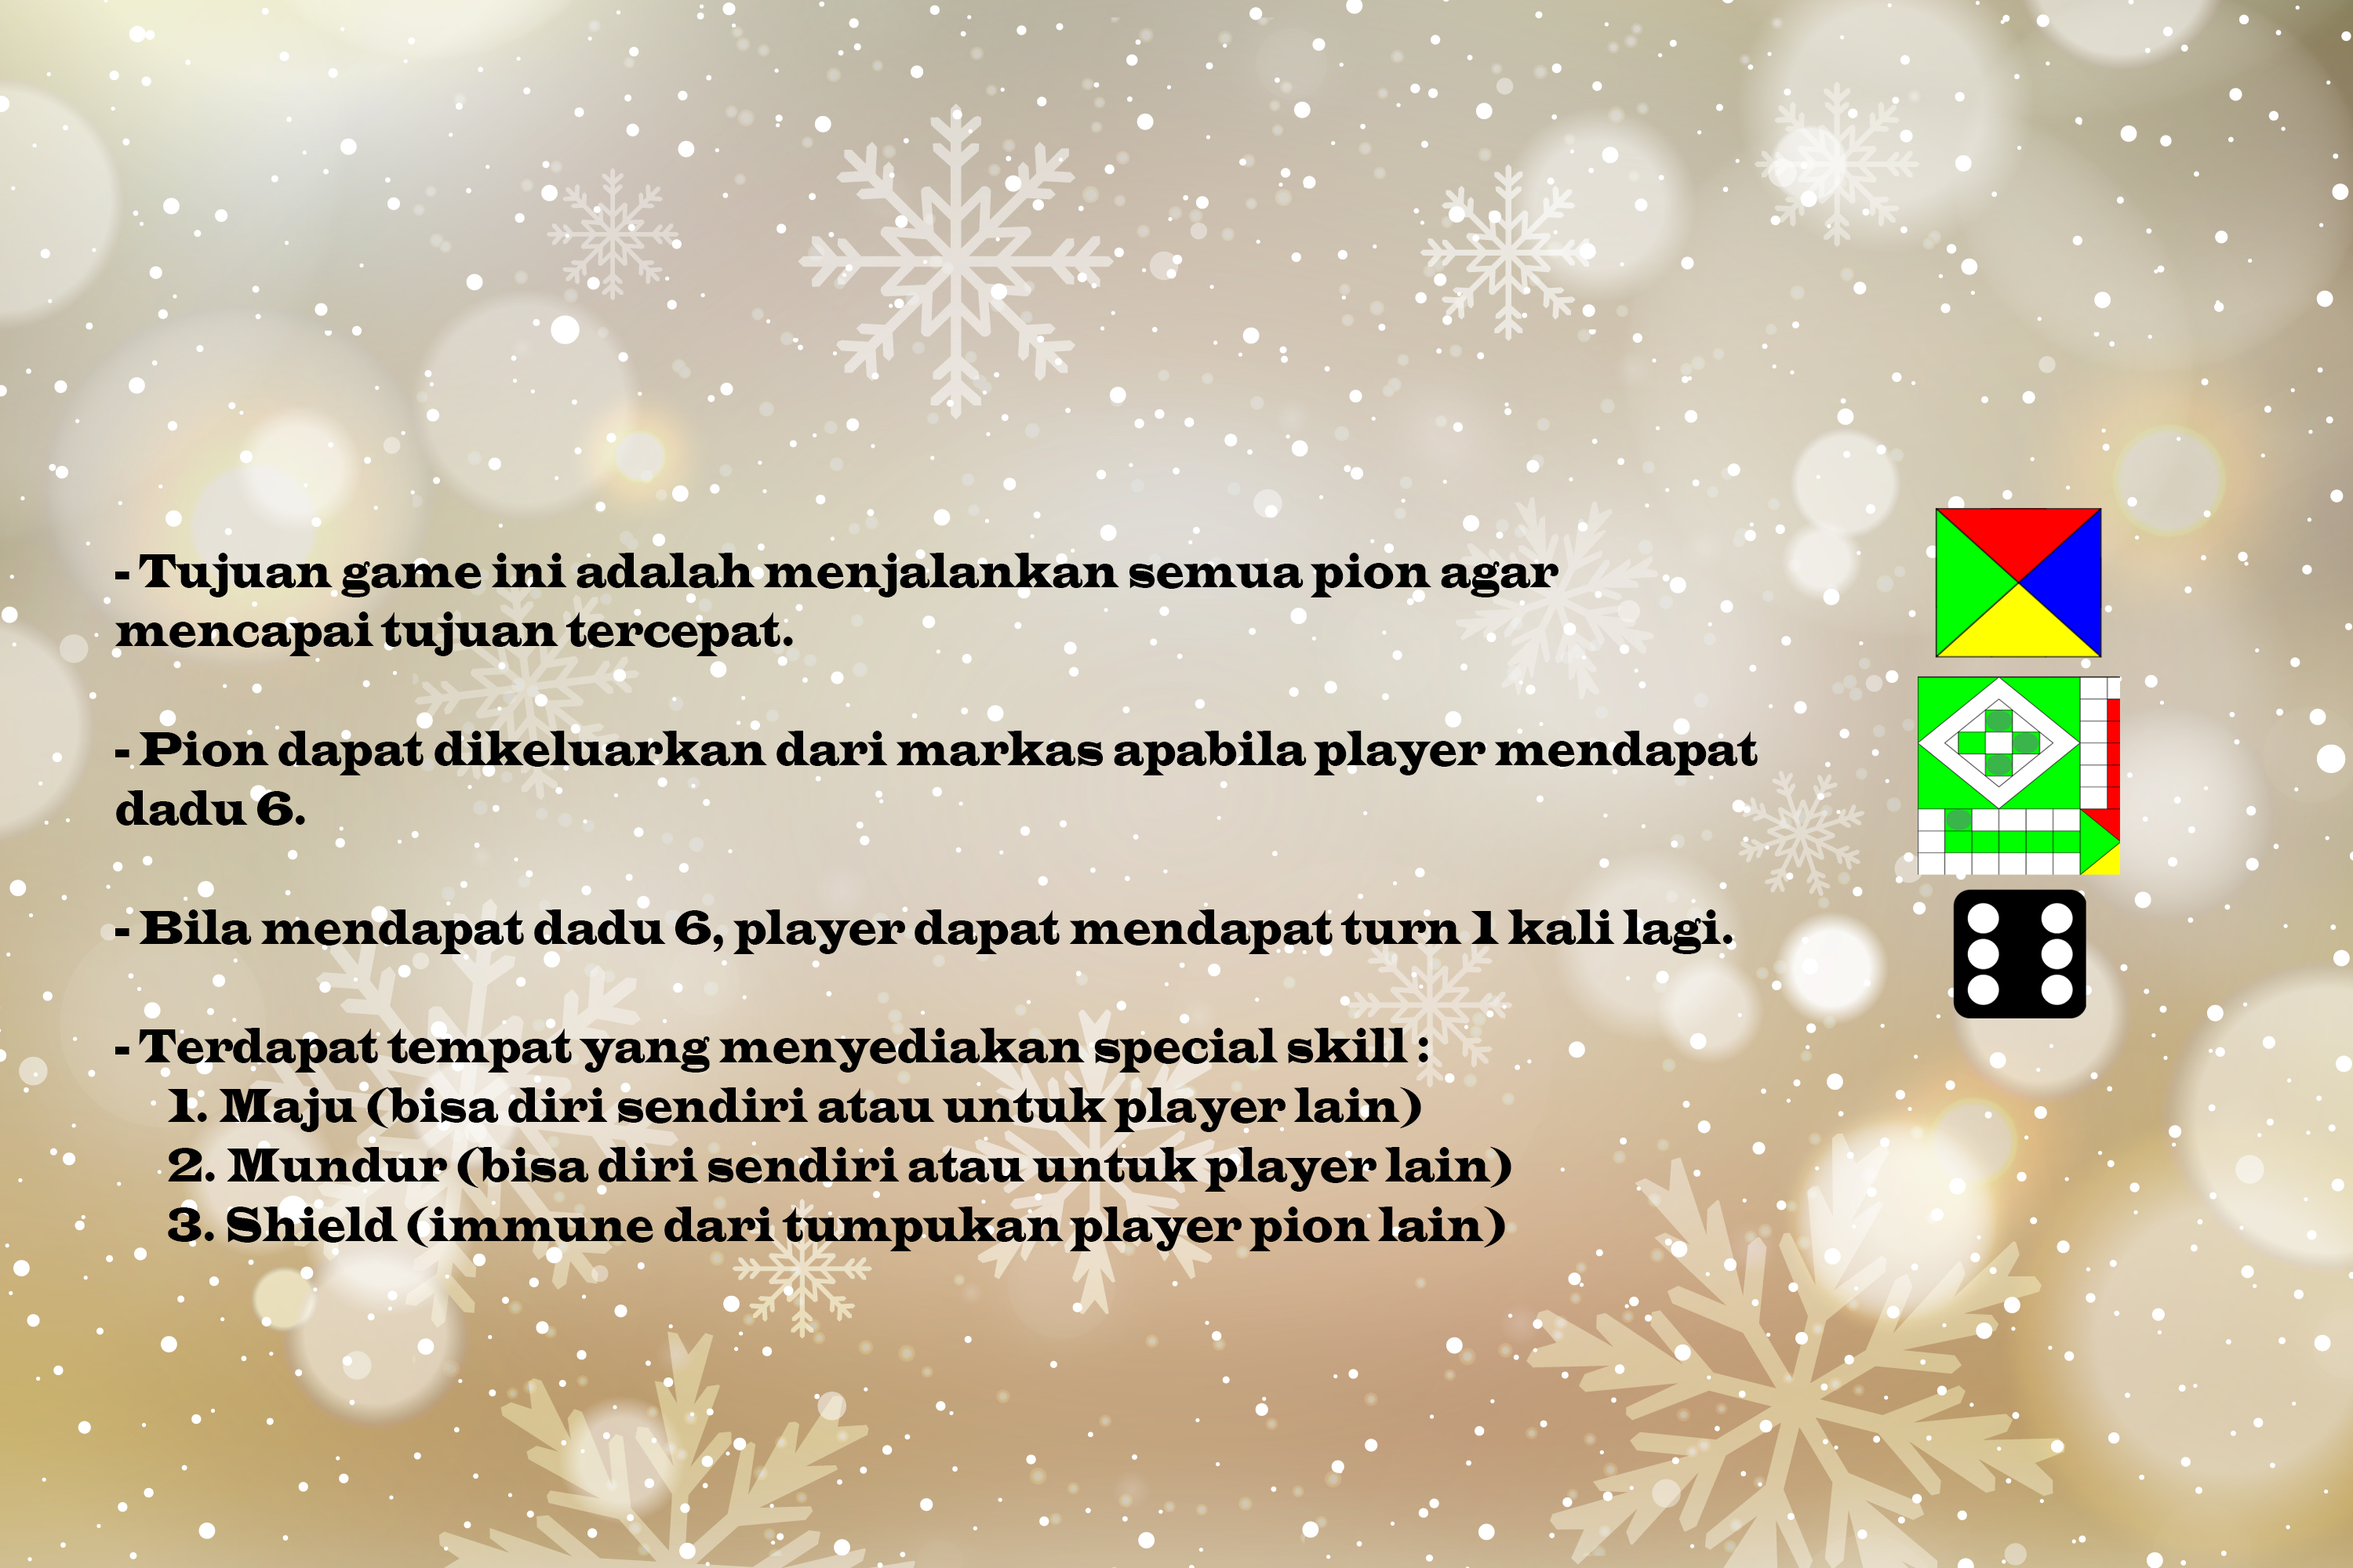
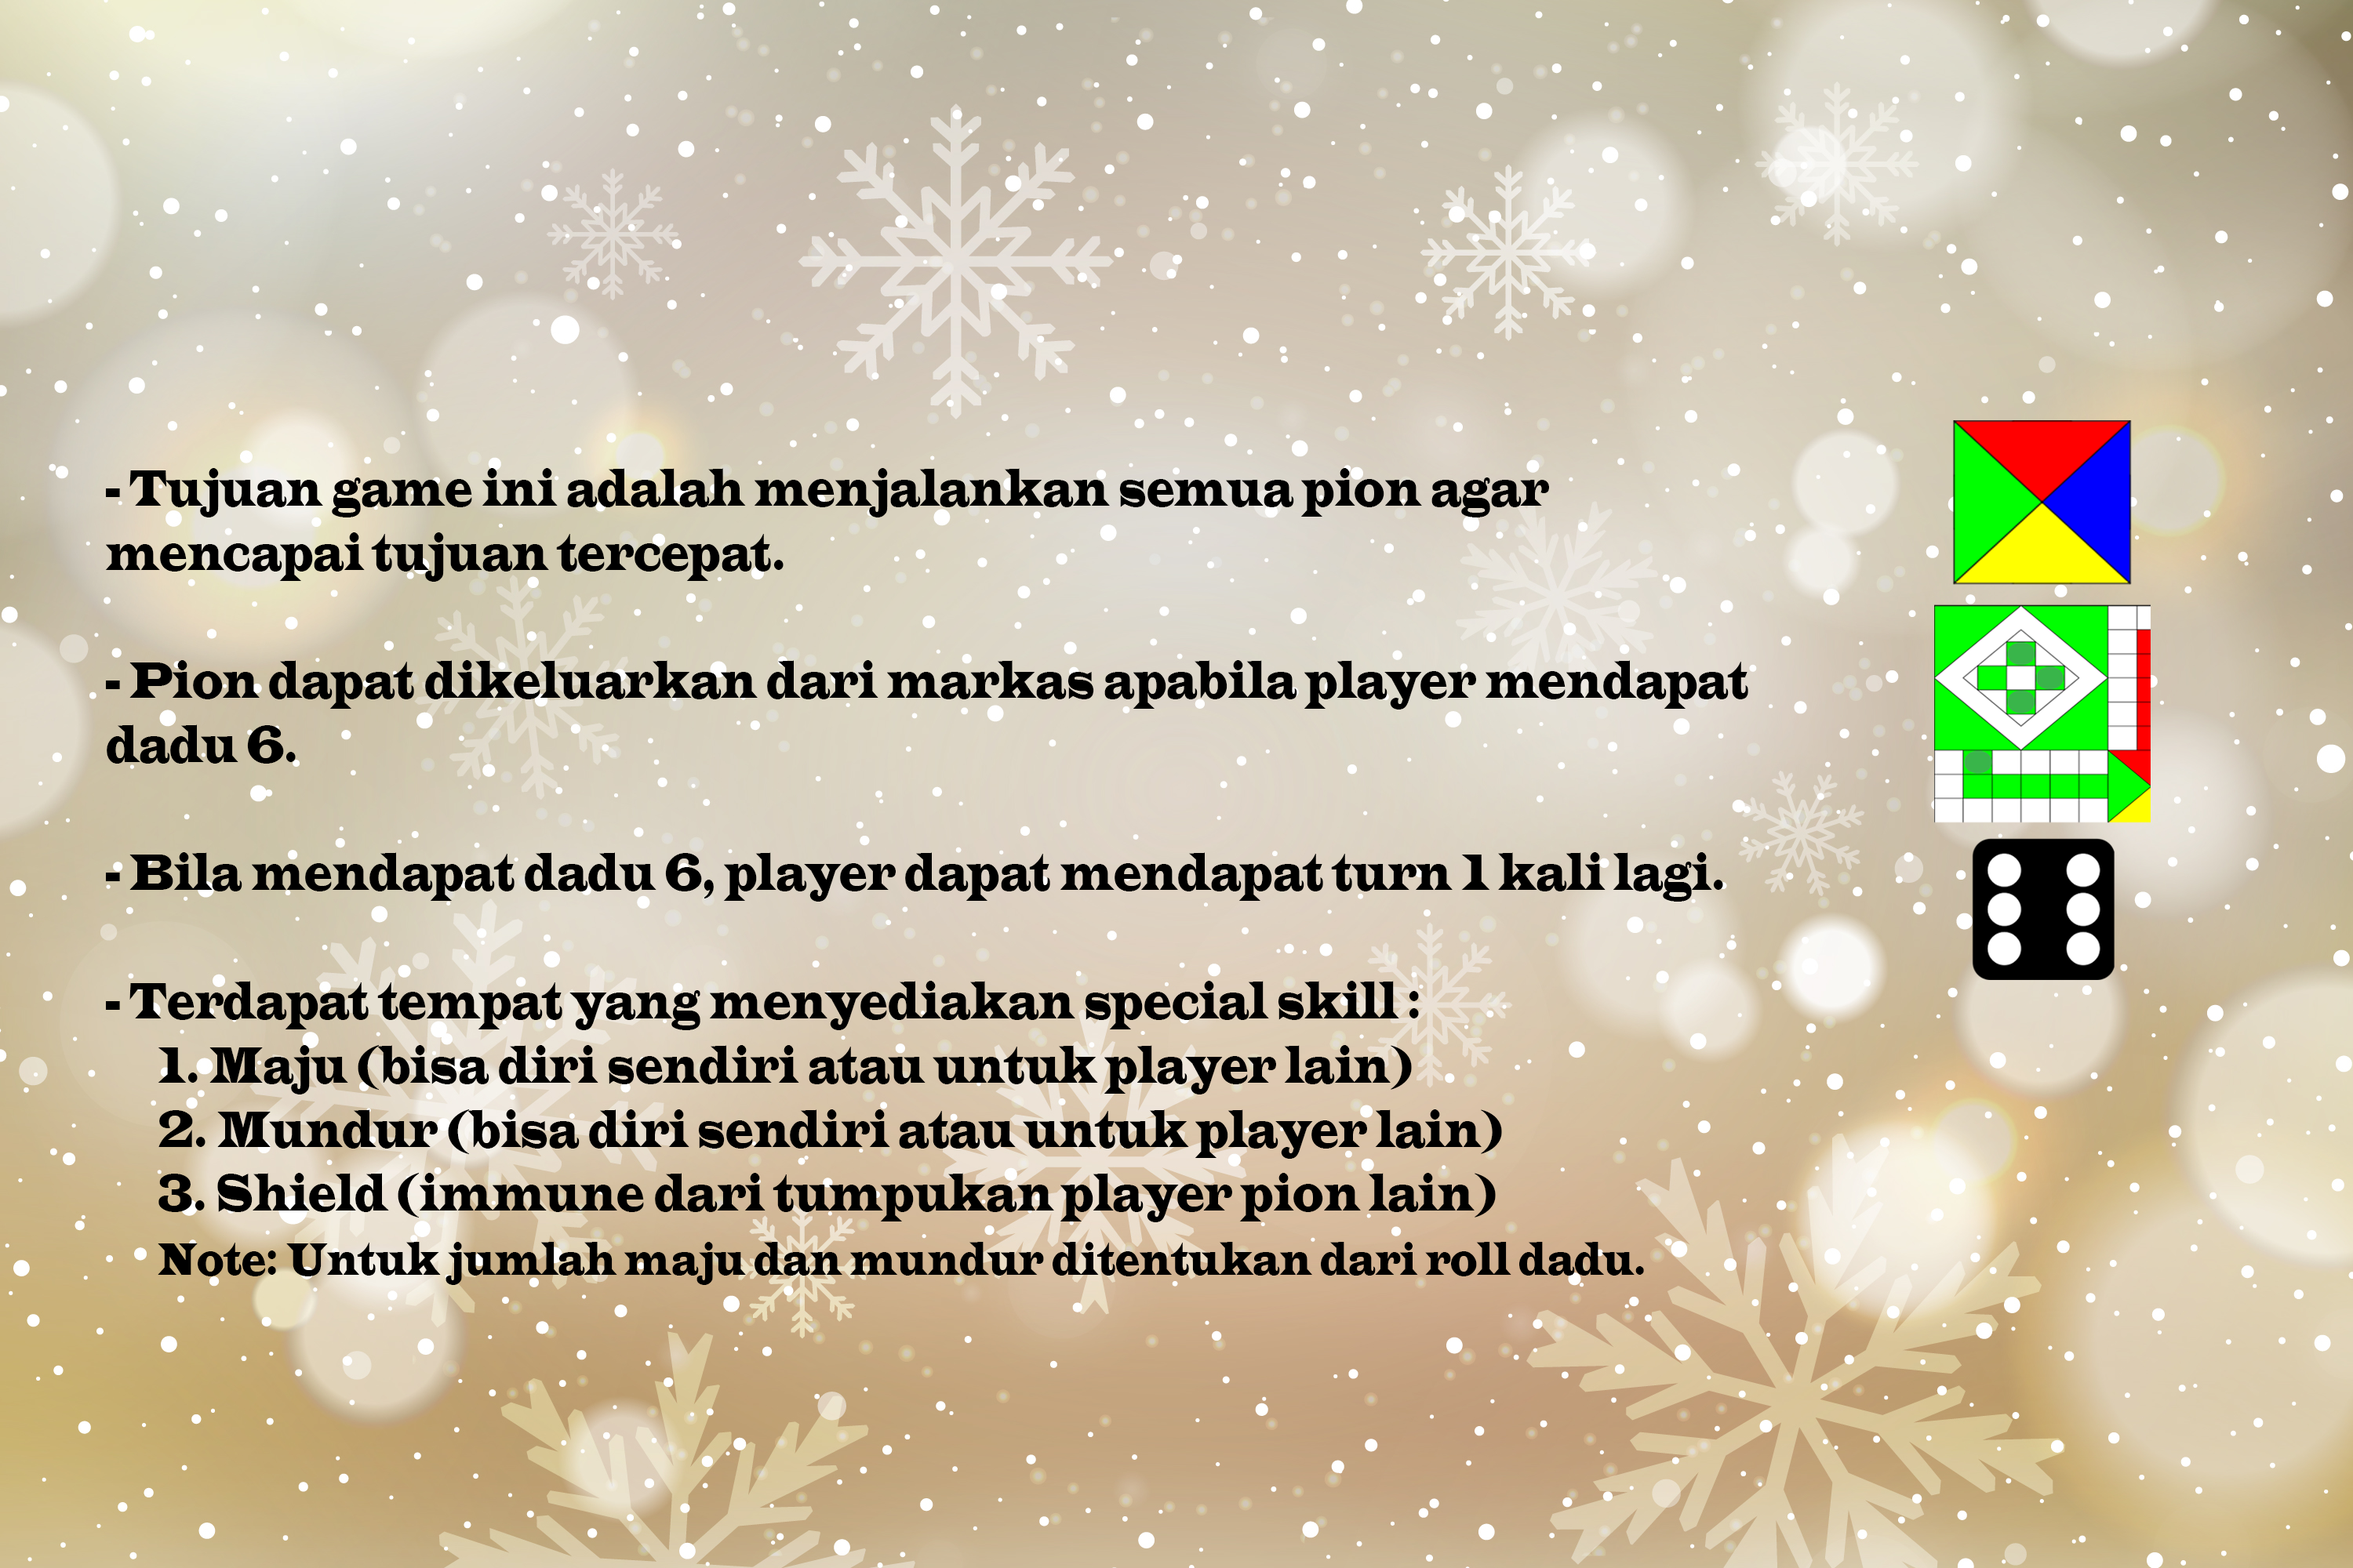
fungsi gae cek pion nde luar onk piro

Changed region(s): [[0.031, 0.279, 0.744, 0.837], [0.806, 0.248, 0.93, 0.651]]

diff --git a/GameState.cpp b/GameState.cpp
@@ -252,11 +252,6 @@ void GameState::Init(sf::RenderWindow& _window)
 
 void GameState::setNext(Node* pos[4][4], int _warna, int _pionKe, bool markas[4][4])
 {
-	/*if (_pion[0][0] == _exit[0])
-	{
-		_pion[0][0] = _mapWarna[0].getHead();
-		break;0
-	}*/
 	if (markas[_warna][_pionKe] == false)
 	{
 		if (pos[_warna][_pionKe] == _exit[_warna])
@@ -284,6 +279,33 @@ void GameState::setdiMarkas(bool n, int i, int j)
 	diMarkas[i][j] = n;
 }
 
+int cek_jumlah_pion_diluar(bool pion[4][4], int giliran)
+{
+	int jumlah_pion_diluar = 0;
+
+	for (int i = 0; i < 4; i++)
+	{
+		if (pion[giliran][i] == false)
+		{
+			jumlah_pion_diluar++;
+		}
+	}
+	return jumlah_pion_diluar;
+}
+
+int pion_yg_diluar(bool pion[4][4], int giliran)
+{
+	int jumlah_pion_diluar = 0;
+	for (int i = 0; i < 4; i++)
+	{
+		if (pion[giliran][i] == false)
+		{
+			jumlah_pion_diluar++;
+		}
+	}
+	return jumlah_pion_diluar;
+}
+
 void GameState::Input(sf::RenderWindow& _window, sf::Event& _event, std::vector<State*>& _state)
 {
 	while (_window.pollEvent(_event))
@@ -294,17 +316,7 @@ void GameState::Input(sf::RenderWindow& _window, sf::Event& _event, std::vector<
 		}
 
 		sf::Vector2i MousePos(sf::Mouse::getPosition(_window));
-		/*for (int a = 0; a < 4; a++)
-		{
-			if (_pionSprite[0][a].getGlobalBounds().contains(static_cast<float>(MousePos.x), static_cast<float>(MousePos.y)))
-			{
-				_pionSprite[0][a].setColor(sf::Color::Red);
-			}
-			else
-			{
-				_pionSprite[0][a].setColor(sf::Color::White);
-			}
-		}*/
+		
 		if (mode == 0)
 		{
 			if (_rollButton.getGlobalBounds().contains(static_cast<float>(MousePos.x), static_cast<float>(MousePos.y)))
@@ -318,74 +330,6 @@ void GameState::Input(sf::RenderWindow& _window, sf::Event& _event, std::vector<
 					_dice.setTexture(&_diceHead[_move - 1]);
 					_rollButton.setFillColor(sf::Color::White);
 					mode = 1;
-					/*if (_giliran == 0)
-					{
-						if (_pion[0][0]->getmarkas())
-						{
-							for (int a = 0; a < _move; a++)
-							{
-								_pionSprite[0][0].setPosition(sf::Vector2f(_pion[0][0]->_posX, _pion[0][0]->_posY));
-								_pion[0][0] = _pion[0][0]->next;
-							}
-							_pion[0][0]->_markas = false;
-						}
-						else
-						{
-							for (int a = 0; a < 1 && _pion[0][0]->_finish == false; a++)
-							{
-								if (_pion[0][0] == _mapWarna[0].getTail())
-								{
-									_pion[0][0]->_finish == true;
-									break;
-								}
-								if (!(_pion[0][0]->_finish))
-								{
-									_pionSprite[0][0].setPosition(sf::Vector2f(_pion[0][0]->_posX, _pion[0][0]->_posY));
-									if (_pion[0][0] == _exit[0])
-									{
-										_pion[0][0] = _mapWarna[0].getHead();
-										break;
-									}
-									if (_pion[0][0] == _mapWarna[0].getTail())
-									{
-										_pion[0][0]->_finish == true;
-										break;
-									}
-									_pion[0][0] = _pion[0][0]->next;
-
-								}
-							}
-							_pion[0][0]->_markas = false;
-						}
-					}*/
-
-					//if (_rollButton.getGlobalBounds().contains(static_cast<float>(MousePos.x), static_cast<float>(MousePos.y)) && mode)
-					//{
-					//	_rollButton.setFillColor(sf::Color::Yellow);
-					//	if (sf::Mouse::isButtonPressed(sf::Mouse::Left))
-					//	{
-					//		_move = rand() % 6 + 1;
-					//		_dice.setTexture(&_diceHead[_move - 1]);
-
-					//		if (_rollButton.getGlobalBounds().contains(static_cast<float>(MousePos.x), static_cast<float>(MousePos.y)))
-					//		{
-					//			setNext(_pion, _giliran, 0, diMarkas);
-					//		}
-					//		_giliran++;
-
-					//		if (_giliran > 3)
-					//		{
-					//			_giliran = 0;
-					//		}
-					//		std::cout << _giliran << std::endl;
-
-					//		_turnFix = _turn[_giliran];
-
-					//		/*if (_move != 6)
-					//		{
-					//			_giliran++;
-					//		}*/
-					//	}
 				}
 			}
 			else
@@ -402,7 +346,10 @@ void GameState::Input(sf::RenderWindow& _window, sf::Event& _event, std::vector<
 				if (_pionSprite[_giliran][a].getGlobalBounds().contains(static_cast<float>(MousePos.x), static_cast<float>(MousePos.y)))
 				{
 					_pionSprite[_giliran][a].setColor(sf::Color::Magenta);
-					if (_move != 6)
+
+
+					//cek pion udah keluar belum kalo dadu bukan 6
+					if (_move != 6 && cek_jumlah_pion_diluar(diMarkas,_giliran))
 					{
 						for (int b = 0; b < 4; b++)
 						{
@@ -412,10 +359,14 @@ void GameState::Input(sf::RenderWindow& _window, sf::Event& _event, std::vector<
 							}
 						}
 					}
+
+					//kalau 6 keluar
 					if (_move == 6)
 					{
 						isout = true;
 					}
+
+					//action klo pion udah keluar
 					if (isout)
 					{
 						if (sf::Mouse::isButtonPressed(sf::Mouse::Left))
